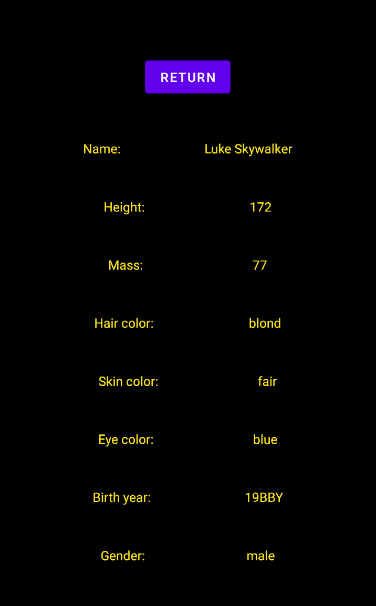
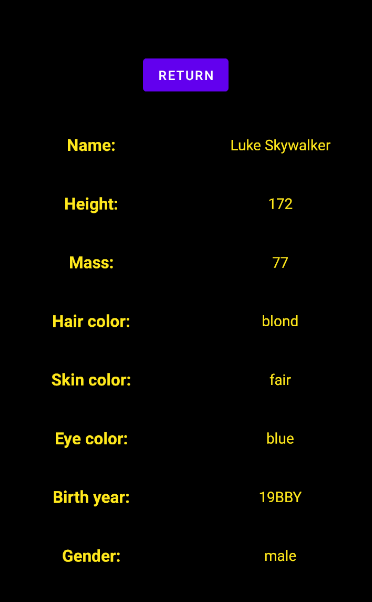
Nouveau visuel des listes et détails Nouvelles captures d'écran Nettoyage du code inutile

diff --git a/app/src/main/java/com/example/project/presentation/detail/FilmDetailViewModel.kt b/app/src/main/java/com/example/project/presentation/detail/FilmDetailViewModel.kt
@@ -9,7 +9,6 @@ import retrofit2.Callback
 import retrofit2.Response
 
 class FilmDetailViewModel : ViewModel() {
-    private lateinit var uid: String
     val film : MutableLiveData<FilmDetailModel> = MutableLiveData()
 
     init {
@@ -33,10 +32,4 @@ class FilmDetailViewModel : ViewModel() {
 
         })
     }
-/*
-    operator fun invoke(viewArgument: String) {
-        this.uid = viewArgument
-    }
-
- */
 }

diff --git a/app/src/main/java/com/example/project/presentation/detail/PeopleDetailFragment.kt b/app/src/main/java/com/example/project/presentation/detail/PeopleDetailFragment.kt
@@ -72,8 +72,6 @@ class PeopleDetailFragment : Fragment() {
 
         viewModel.callApi(uid)
         viewModel.people.observe(viewLifecycleOwner, Observer { peopleDetailModel ->
-            //loader.isVisible = filmDetailModel is FilmDetailLoader
-            //textViewError.isVisible = filmDetailModel is FilmDetailError
 
             when(peopleDetailModel) {
                 is PeopleDetailSuccess -> {

diff --git a/app/src/main/java/com/example/project/presentation/detail/StarshipDetailViewModel.kt b/app/src/main/java/com/example/project/presentation/detail/StarshipDetailViewModel.kt
@@ -9,7 +9,6 @@ import retrofit2.Callback
 import retrofit2.Response
 
 class StarshipDetailViewModel : ViewModel() {
-    private lateinit var uid: String
     val starship : MutableLiveData<StarshipDetailModel> = MutableLiveData()
 
     init {

diff --git a/app/src/main/java/com/example/project/presentation/detail/SpeciesDetailViewModel.kt b/app/src/main/java/com/example/project/presentation/detail/SpeciesDetailViewModel.kt
@@ -9,7 +9,6 @@ import retrofit2.Callback
 import retrofit2.Response
 
 class SpeciesDetailViewModel : ViewModel() {
-    private lateinit var uid: String
     val species : MutableLiveData<SpeciesDetailModel> = MutableLiveData()
 
     init {

diff --git a/app/src/main/java/com/example/project/presentation/detail/VehicleDetailViewModel.kt b/app/src/main/java/com/example/project/presentation/detail/VehicleDetailViewModel.kt
@@ -9,7 +9,6 @@ import retrofit2.Callback
 import retrofit2.Response
 
 class VehicleDetailViewModel : ViewModel() {
-    private lateinit var uid: String
     val vehicle : MutableLiveData<VehicleDetailModel> = MutableLiveData()
 
     init {

diff --git a/app/src/main/java/com/example/project/presentation/detail/PeopleDetailViewModel.kt b/app/src/main/java/com/example/project/presentation/detail/PeopleDetailViewModel.kt
@@ -9,7 +9,6 @@ import retrofit2.Callback
 import retrofit2.Response
 
 class PeopleDetailViewModel : ViewModel() {
-    private lateinit var uid: String
     val people : MutableLiveData<PeopleDetailModel> = MutableLiveData()
 
     init {

diff --git a/app/src/main/java/com/example/project/presentation/detail/PlanetDetailViewModel.kt b/app/src/main/java/com/example/project/presentation/detail/PlanetDetailViewModel.kt
@@ -9,7 +9,6 @@ import retrofit2.Callback
 import retrofit2.Response
 
 class PlanetDetailViewModel : ViewModel() {
-    private lateinit var uid: String
     val planet : MutableLiveData<PlanetDetailModel> = MutableLiveData()
 
     init {
